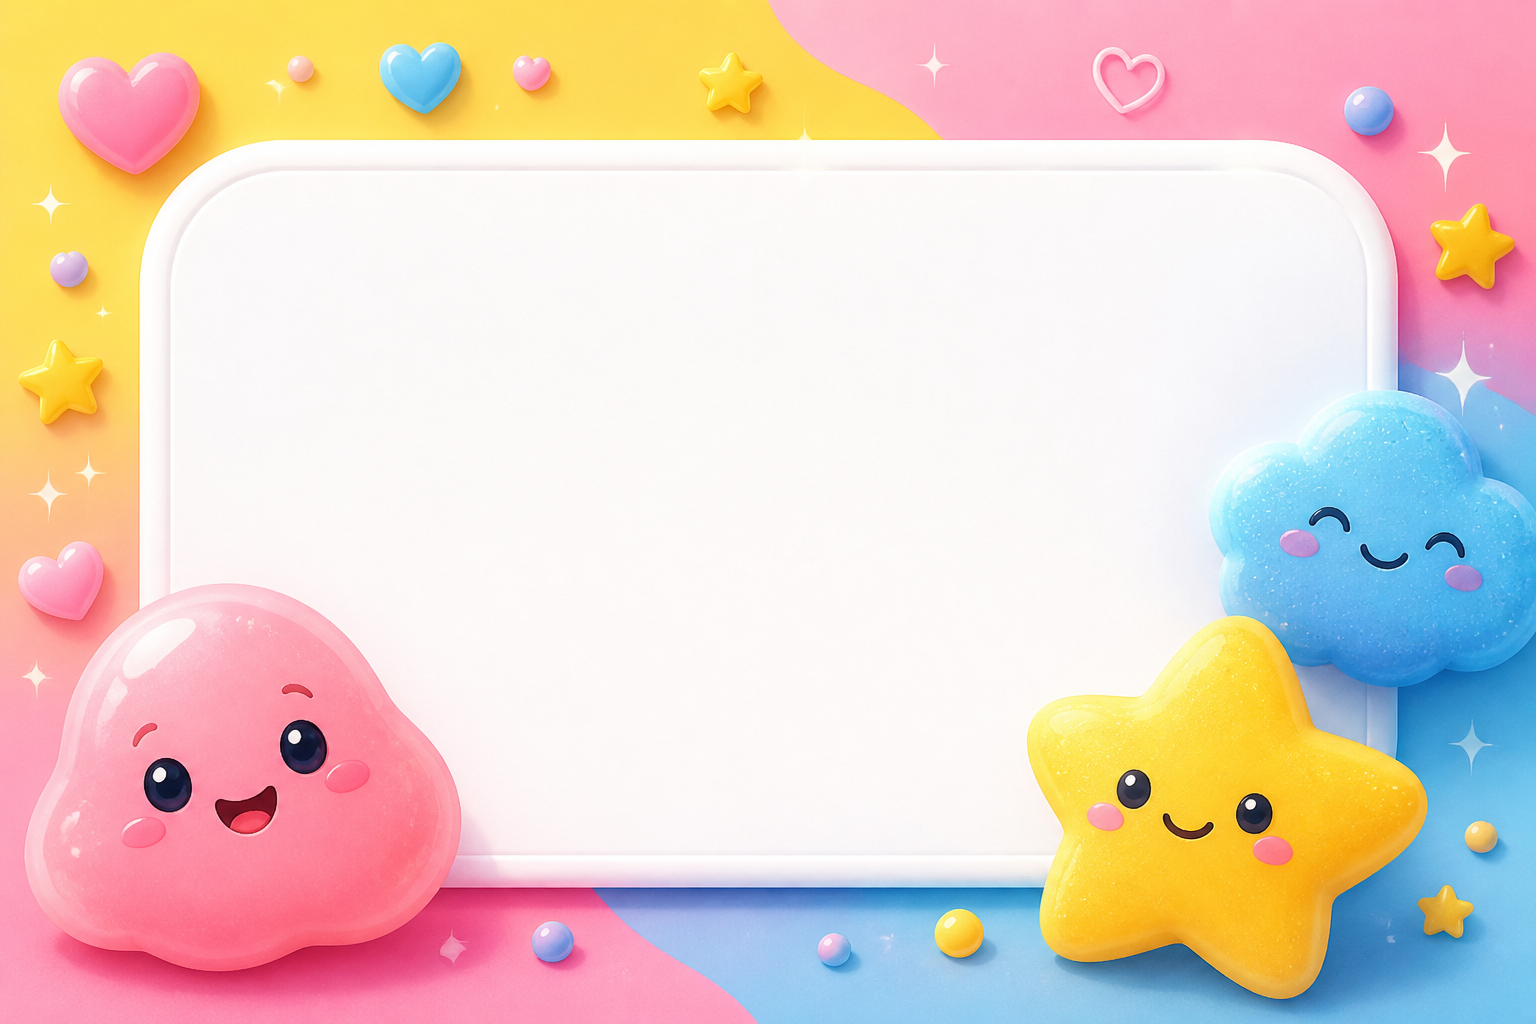
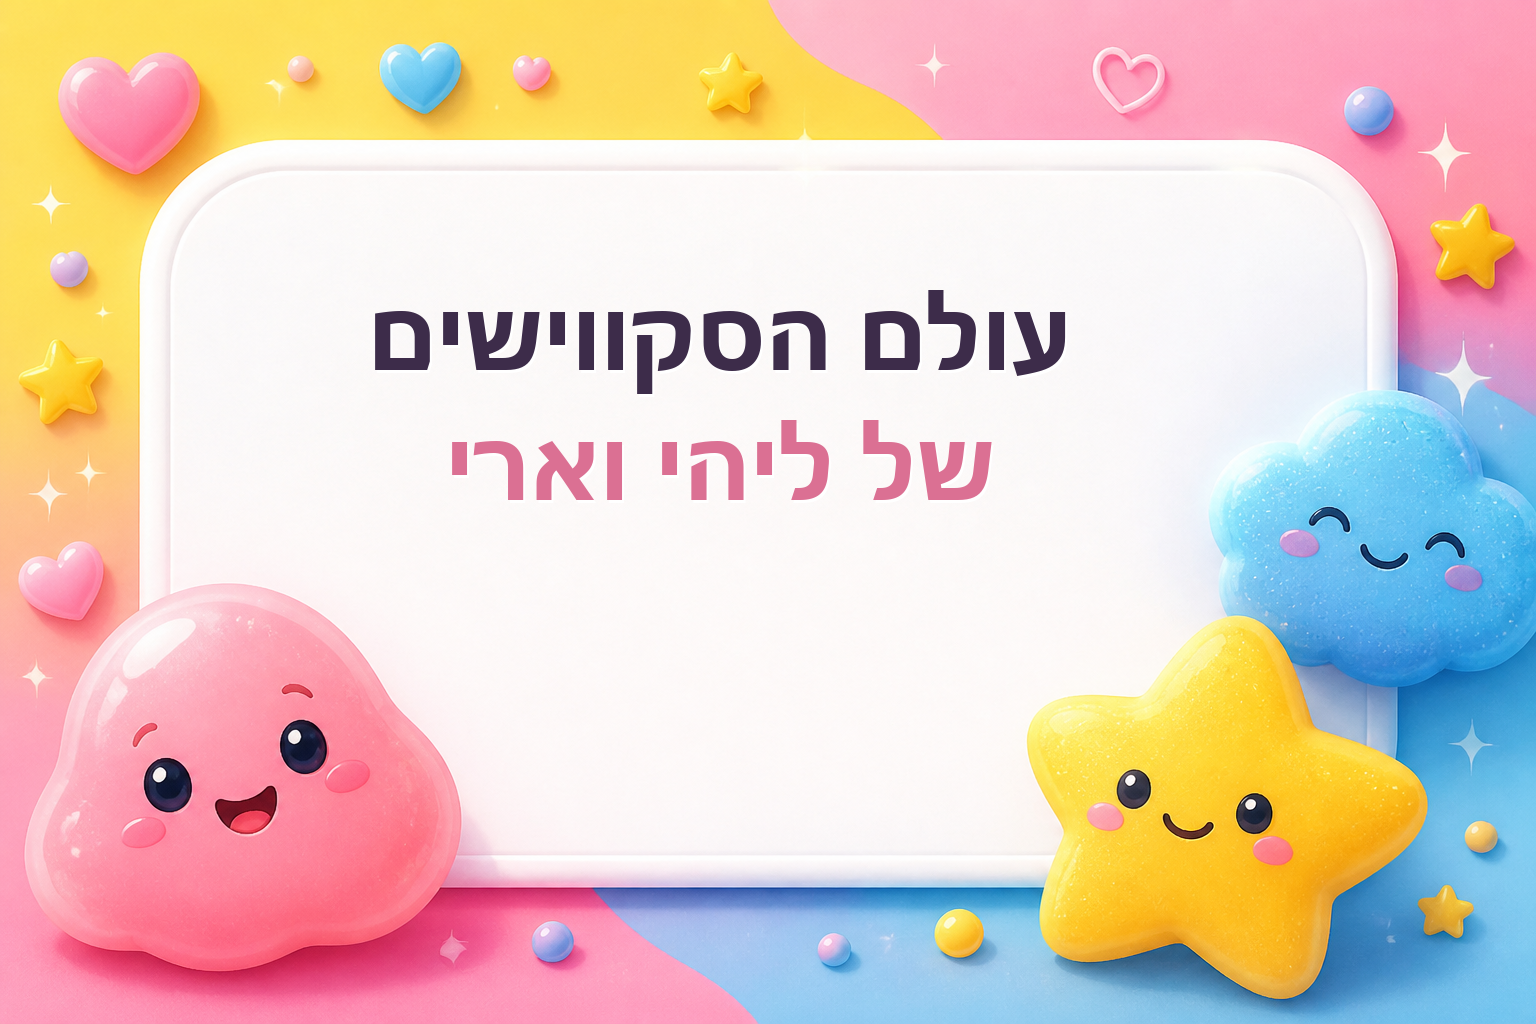
Add the store name to the WhatsApp share preview image.

Changed region(s): [[0.2188, 0.2812, 0.7188, 0.4062], [0.2812, 0.4062, 0.6562, 0.5]]

diff --git a/src/app/layout.tsx b/src/app/layout.tsx
@@ -27,9 +27,9 @@ export const metadata: Metadata = {
     description: "חנות סקווישים צבעונית וכיפית — בואו לבחור סקווישי!",
     images: [
       {
-        url: "/og-image.png",
-        width: 1376,
-        height: 768,
+        url: "/og-share.png",
+        width: 1536,
+        height: 1024,
         alt: "עולם הסקווישים של ליהי וארי",
       },
     ],
@@ -38,7 +38,7 @@ export const metadata: Metadata = {
     card: "summary_large_image",
     title: "עולם הסקווישים של ליהי וארי",
     description: "חנות סקווישים צבעונית וכיפית — בואו לבחור סקווישי!",
-    images: ["/og-image.png"],
+    images: ["/og-share.png"],
   },
   appleWebApp: {
     capable: true,
